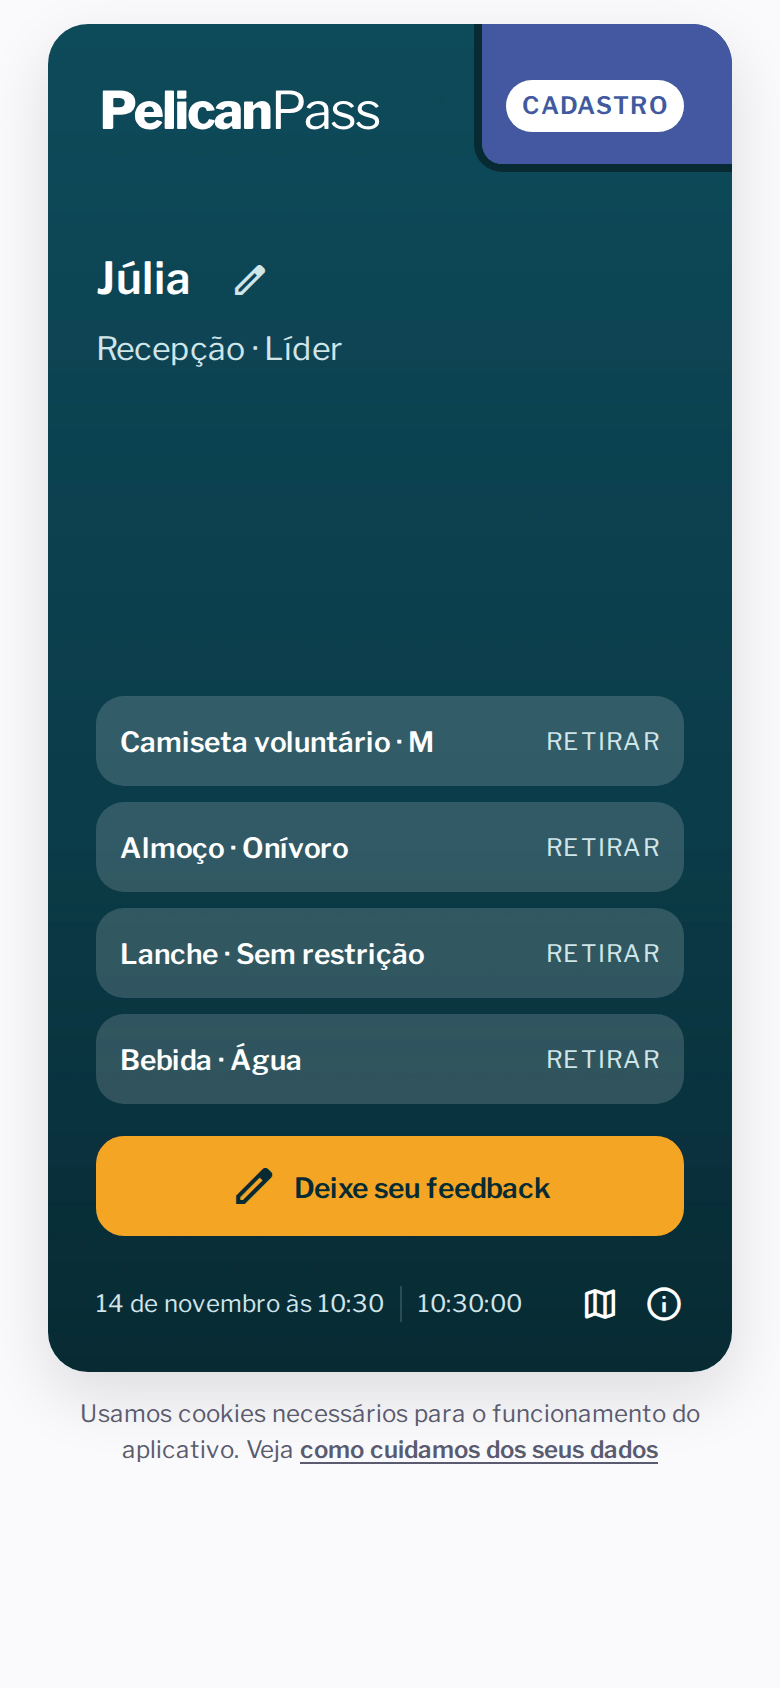
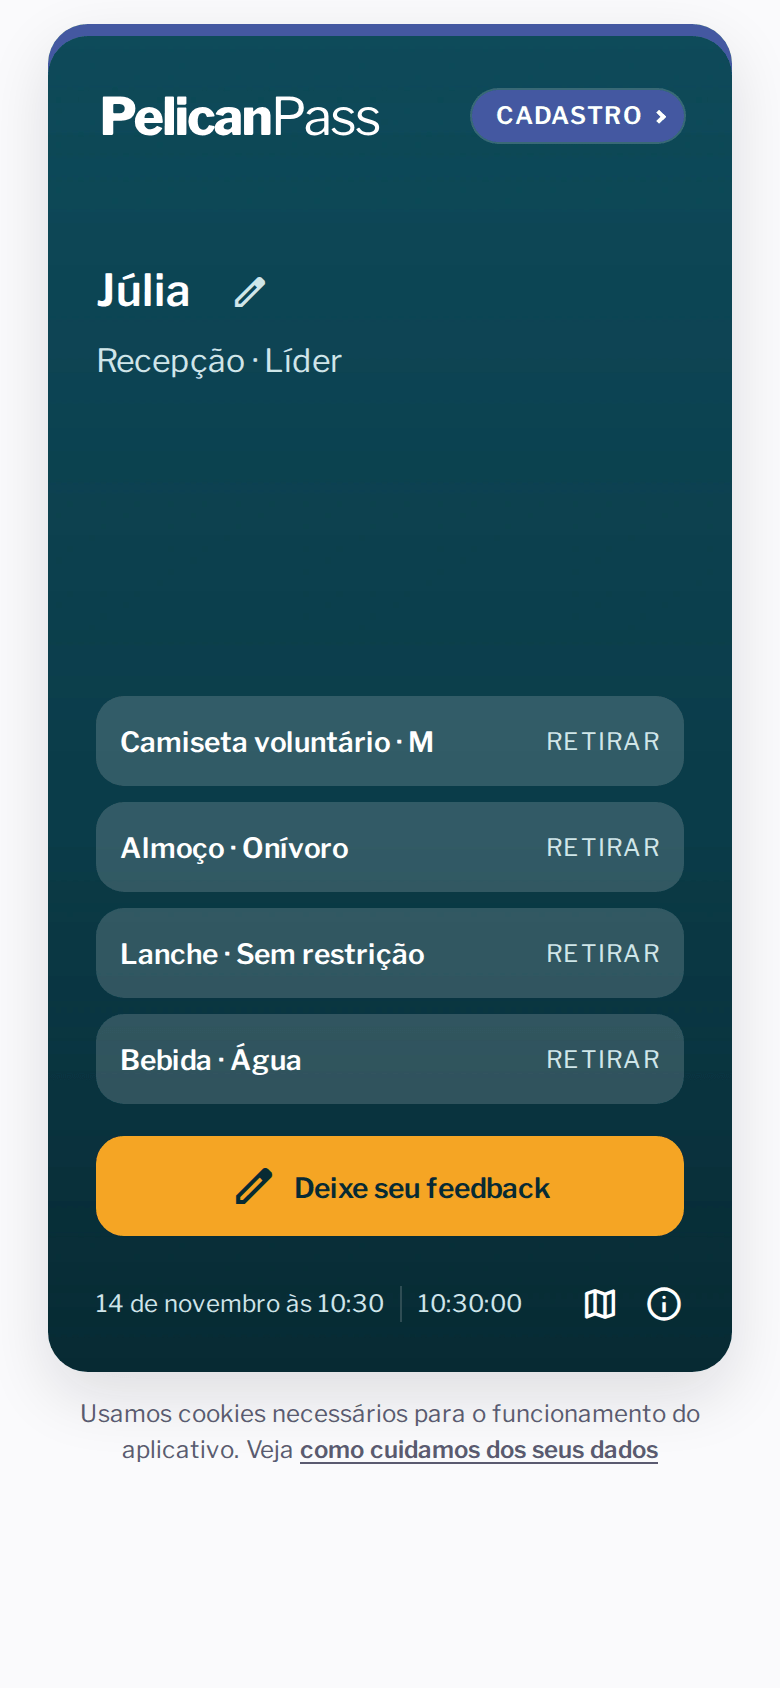
style(pass): replace the tier tab with a chip and a top edge
Show a volunteer's tier as a tier-coloured chip with a chevron, which
opens the actions face and inverts while it is open, plus a 6px edge
along the card's top. The head no longer bleeds a tab into the card, and
the wordmark gives way below 360px so the longest label still fits.

diff --git a/src/web/public/css/pages/attendee/pass.css b/src/web/public/css/pages/attendee/pass.css
@@ -44,11 +44,21 @@
 
   box-shadow: var(--shadow-lg);
 
-  /* The card's inset, which the tabs bleed through to reach its edges. */
-  --pass-pad: var(--space-5);
+  /* The depth of a tier's edge along the card's top. */
+  --pass-edge: 6px;
+}
 
-  /* Abyss, the backdrop's deep end: the groove between a tab and the body. */
-  --pass-groove: #072a33;
+/*
+ * A volunteer's tier, as an edge along the card's top. An inset shadow rather
+ * than a border or a pseudo-element: it follows the card's rounded corners and
+ * takes no space, so nothing below it moves. It shows on every face, so the
+ * tier is readable whichever side is up. Without `data-access` (a participant,
+ * or a volunteer with no tier) there is no edge.
+ */
+.pass[data-access] {
+  box-shadow:
+    inset 0 var(--pass-edge) 0 var(--access-stripe),
+    var(--shadow-lg);
 }
 
 /*
@@ -87,17 +97,17 @@
   --role-badge-bg: var(--camera-control-bg);
   --role-badge-fg: var(--text-on-brand);
 
-  /* How far the tabs reach below the wordmark's own height. */
-  --tab-drop: var(--space-3);
-
   /*
    * The wordmark and the front tab share the first cell, so the tab can lie
-   * over it; the right column holds the access tab, or a plain volunteer's
-   * chip.
+   * over it; the right column holds the access chip, or a plain volunteer's
+   * badge.
    */
   display: grid;
   grid-template-columns: auto 1fr auto;
   align-items: center;
+
+  /* On the row, not the wordmark, so the chip stays centred on it. */
+  padding-block-end: var(--space-3);
 }
 
 .pass-head > header {
@@ -105,9 +115,8 @@
   position: relative;
   z-index: 2;
 
-  /* Room for the front tab's edge and gap beyond the wordmark. */
+  /* A gap to the chip beside the wordmark. */
   padding-inline-end: var(--space-2);
-  padding-block-end: var(--tab-drop);
 
   /* Clicks fall through to the front tab beneath. */
   pointer-events: none;
@@ -119,148 +128,160 @@
 }
 
 /*
- * The tabs. Two shapes of one idea: the inactive tab paints its own corner of
- * the card and is cut off from the body by an Abyss border on its inner
- * sides, which reads as a groove cut into the card; the active tab has no
- * border and shares the body's paint, so it reads as joined. The groove is
- * the brand's own deep end rather than the canvas, so it looks the same in
- * both schemes instead of a white or black gutter. No masks and no measuring:
- * the borders are the whole effect.
+ * The access chip. A button that opens the actions face, drawn as the tier's
+ * pill: the button itself is transparent and only gives the pill a tap target,
+ * in the cell a plain volunteer's badge occupies, so the head is the same size
+ * with or without actions. The pill is the inner `.role-badge`, painted in the
+ * tier's colours; its faint white ring keeps the darkest tiers from sinking
+ * into the backdrop. The chevron points at the actions it opens.
  */
 .pass-tab {
   grid-column: 3;
   grid-row: 1;
 
-  /* Bleed through the card's padding to its top and right edges. */
-  margin: calc(-1 * var(--pass-pad)) calc(-1 * var(--pass-pad)) 0 0;
-  padding: calc(var(--pass-pad) + var(--space-1)) var(--pass-pad)
-    calc(var(--tab-drop) + var(--space-1)) var(--space-3);
-
   /* The global button is a full-width accent block. */
   width: auto;
-  min-height: 0;
-  max-width: 62vw;
+  min-height: 2.75rem;
+  margin: 0;
+  padding: var(--space-2) 0 var(--space-2) var(--space-2);
 
-  border: 0 solid var(--pass-groove);
-  border-width: 0 0 var(--space-1) var(--space-1);
-  border-radius: 0 var(--radius-lg) 0 var(--radius-md);
-  background: var(--access-stripe);
-  color: var(--access-ink);
+  border: 0;
+  border-radius: 0;
+  background: none;
+  color: inherit;
 
-  --role-badge-bg: var(--access-ink);
-  --role-badge-fg: var(--access-stripe);
+  --role-badge-bg: var(--access-stripe);
+  --role-badge-fg: var(--access-ink);
 }
 
-/* The neutral tab's chip is glass, as the plain volunteer's is. */
+.pass-tab:hover {
+  background: none;
+}
+
+/* The neutral chip is glass, as the plain volunteer's badge is. */
 .pass:not([data-access]) .pass-tab {
   --role-badge-bg: var(--camera-control-bg);
   --role-badge-fg: var(--text-on-brand);
 }
 
-.pass-tab:hover {
-  background: var(--access-stripe);
-  color: var(--access-ink);
-}
-
-/*
- * The global ring sits 2px outside the box, where the card's edge and the
- * page's would clip it, and its `border-radius` would square the tab's corner.
- * Drawn inside the tab, in the tab's ink.
- */
-.pass-tab:focus-visible,
-.pass-front-tab:focus-visible {
-  outline-offset: -4px;
-  outline-color: var(--access-ink);
-}
-
-.pass-tab:focus-visible {
-  border-radius: 0 var(--radius-lg) 0 var(--radius-md);
-}
-
-.pass-front-tab:focus-visible {
-  border-radius: var(--radius-lg) 0 var(--radius-md) 0;
-  outline-color: var(--text-on-brand);
-}
-
 .pass-tab .role-badge {
+  display: inline-flex;
+  align-items: center;
+  gap: 0.5em;
+
   /* The longest label overflows a 320px row beside the wordmark: wrap it. */
   flex-shrink: 1;
-  padding-inline: var(--space-2);
+  padding: var(--space-1) var(--space-2) var(--space-1) var(--space-3);
   white-space: normal;
   text-align: center;
+
+  box-shadow: 0 0 0 1px rgb(255 255 255 / 18%);
+}
+
+/* Drawn with borders: the icon font's subset has no chevron to spare. */
+.pass-tab .role-badge::after {
+  content: '';
+  flex-shrink: 0;
+  width: 0.4em;
+  height: 0.4em;
+  margin-inline-end: 0.2em;
+  border: solid currentColor;
+  border-width: 0 2px 2px 0;
+  transform: rotate(-45deg);
 }
 
 /*
- * On the narrowest phones the longest label's longest word, RETIRADAS, is
- * most of what the row has left beside the wordmark. The wordmark keeps its
- * size and its gap to the tab; the tab's padding and the chip's type give.
+ * The global ring sits outside the button's box and would be clipped by the
+ * card, so the ring is drawn around the pill instead.
+ */
+.pass-tab:focus-visible {
+  outline: none;
+}
+
+.pass-tab:focus-visible .role-badge {
+  outline: 2px solid var(--text-on-brand);
+  outline-offset: 2px;
+}
+
+/*
+ * On small phones the wordmark and the longest single-word label, VOLUNTÁRIO,
+ * are wider than the row. The chip's type and padding give first; below 360px
+ * that is not enough, and the wordmark and the gaps around the chip give too.
  */
 @media (max-width: 24rem) {
   .pass-tab {
-    padding-inline: var(--space-1);
+    padding-inline-start: var(--space-1);
   }
 
   .pass-tab .role-badge {
-    padding-inline: var(--space-1);
+    padding-inline: var(--space-2);
     font-size: 0.6875rem;
     letter-spacing: 0.02em;
   }
 }
 
+@media (max-width: 359px) {
+  .pass-head > header {
+    padding-inline-end: var(--space-1);
+  }
+
+  .pass-head .wordmark {
+    height: 1.625rem;
+  }
+
+  .pass-tab {
+    padding-inline-start: 0;
+  }
+}
+
 /*
- * The front tab: laid over the wordmark, and drawn only on the actions face,
- * where it is the inactive one.
+ * The actions face: the card keeps the brand backdrop and the head does not
+ * move. Only the pill changes, swapping its fill and ink to read as pressed,
+ * and the chevron turns to point back at the front. `aria-expanded` is the
+ * state `ui/pass.ts` already keeps, so the style cannot drift from it. For a
+ * neutral chip the swap gives a white pill in the backdrop's mid-tone; the
+ * selector matches the neutral chip's specificity and comes after it.
+ */
+.pass .pass-tab[aria-expanded='true'] {
+  --role-badge-bg: var(--access-ink);
+  --role-badge-fg: var(--access-stripe);
+}
+
+.pass-tab[aria-expanded='true'] .role-badge::after {
+  margin-inline: 0.2em 0;
+  transform: rotate(135deg);
+}
+
+/*
+ * The front tab: laid over the wordmark, invisible, and live only on the
+ * actions face, where it returns to the front.
  */
 .pass-front-tab {
-  /*
-   * From the card's left edge to the access tab, whatever the wordmark's
-   * width. The right margin pulls its box over the access tab's left border,
-   * so its groove lands on that border's pixels: the divider keeps its
-   * place when the tabs swap.
-   */
-  grid-area: 1 / 1 / 2 / 3;
+  grid-area: 1 / 1;
   position: relative;
   z-index: 1;
-  margin: calc(-1 * var(--pass-pad)) calc(-1 * var(--space-1)) 0
-    calc(-1 * var(--pass-pad));
   align-self: stretch;
   justify-self: stretch;
 
   width: auto;
   min-height: 0;
+  margin: 0;
   padding: 0;
 
-  border: 0 solid var(--pass-groove);
-  border-width: 0 var(--space-1) var(--space-1) 0;
-  border-radius: var(--radius-lg) 0 var(--radius-md) 0;
-  background: var(--brand-backdrop);
+  border: 0;
+  background: none;
   color: var(--text-on-brand);
 }
 
 .pass-front-tab:hover {
-  background: var(--brand-backdrop);
+  background: none;
 }
 
-/*
- * The actions face: the tabs swap. The card keeps the brand backdrop; the head
- * becomes a tier-coloured band that bleeds to the card's top and sides and
- * reaches a little below the tabs, so the access tab, now active, opens into
- * it. The wordmark side turns into the inactive tab and sits on the band, its
- * rounded corner exposing the tier colour as a concave shoulder. The negative
- * margins and the padding that matches them leave the head's content where it
- * is on the front.
- */
-.pass[data-face='actions'] .pass-head {
-  margin: calc(-1 * var(--pass-pad)) calc(-1 * var(--pass-pad))
-    calc(-1 * var(--space-4));
-  padding: var(--pass-pad) var(--pass-pad) var(--space-4);
-  border-radius: var(--radius-lg) var(--radius-lg) 0 0;
-  background: var(--access-stripe);
-}
-
-.pass[data-face='actions'] .pass-tab {
-  /* The border stays, so the chip does not move; it takes the band's paint. */
-  border-color: transparent;
+/* The global ring sits outside the box, where the card's edge would clip it. */
+.pass-front-tab:focus-visible {
+  border-radius: var(--radius-md);
+  outline-color: var(--text-on-brand);
+  outline-offset: -2px;
 }
 
 .pass-head header {
@@ -905,7 +926,7 @@ body[data-page='pass'] .footer-logout-wrap {
 /*
  * The actions face: the staff links stacked at full width, and the way back at
  * the foot. The body keeps the brand backdrop on this face, so they take the
- * same glass as the front's chips; only the head is tier-coloured.
+ * same glass as the front's chips.
  */
 .pass-actions {
   gap: var(--space-4);

diff --git a/src/web/public/css/components/access-tier.css b/src/web/public/css/components/access-tier.css
@@ -1,7 +1,7 @@
 /*
  * What a volunteer's access looks like from across a table: one fill and ink
  * per tier, read off `data-access`. Shared by the pass, where it paints the
- * tab and the band the tab opens into, and by the administrator screens' tier
+ * access chip and the card's top edge, and by the administrator screens' tier
  * chip.
  *
  * A volunteer with actions but no tier has no `data-access` and keeps the

diff --git a/CHANGELOG.md b/CHANGELOG.md
@@ -20,7 +20,7 @@ The public history of this project starts at 2.0.0. Earlier versions, up to 1.2.
 
 ### Changed
 
-- The volunteer pass's tier tab is part of the card: the five tier colours are one family at a shared lightness and chroma beside Harbour, the notch between tab and body is an Abyss groove in both themes instead of a canvas-coloured gap, and the actions face keeps the brand backdrop with the tier colour as a band that the access tab opens into
+- The volunteer pass shows its tier as a chip with a chevron, in place of the tab, plus a tier-coloured edge along the card's top; the five tier colours are one family at a shared lightness and chroma beside Harbour, and the actions face keeps the brand backdrop
 - The view fixtures live in `src/web/views/fixtures.ts` and the helmet CSP directives in `src/config/csp.ts`, shared by the app, the snapshot suite and the static builds; `scripts/static/` exports its header and asset helpers
 
 ### Fixed

diff --git a/docs/design/brand.md b/docs/design/brand.md
@@ -81,9 +81,9 @@ and the layouts' `theme-color` metas.
 
 ### Volunteer tiers
 
-The volunteer pass's access tab and chip take one fill per tier, defined in `css/components/access-tier.css`
+The volunteer pass's access chip and top edge take one fill per tier, defined in `css/components/access-tier.css`
 and read off `data-access`. The five share one lightness and chroma (OKLCH L 0.48, C 0.12) and differ only
-in hue, so they read as one family beside Harbour. The groove between a tab and the card is Abyss.
+in hue, so they read as one family beside Harbour. A tier shows as its chip and as a 6px edge along the card's top.
 
 | Tier   | Hex       | Ink       | Ratio |
 | ------ | --------- | --------- | ----- |
